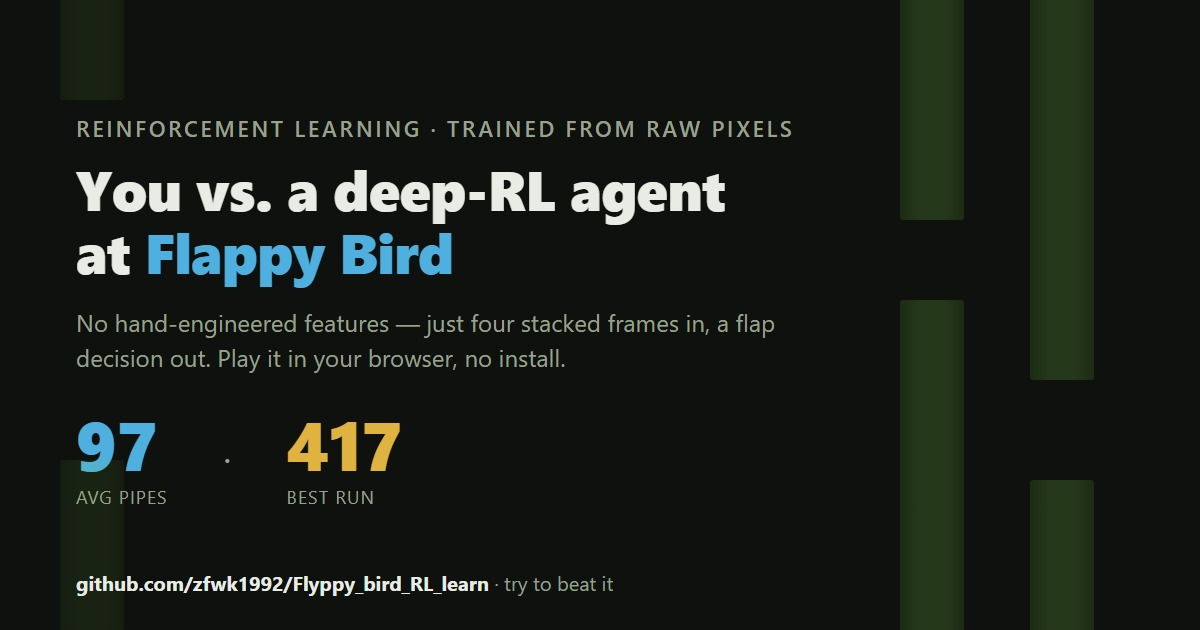
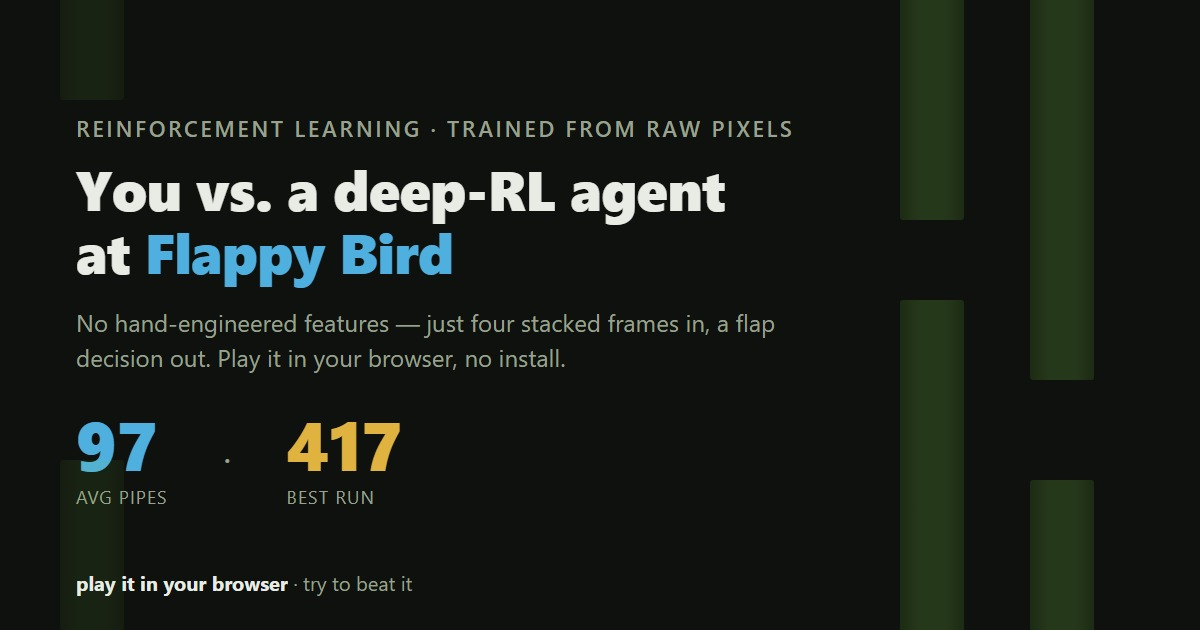
web: 去掉页面上的仓库链接，并挡住随站点一起公开的开发文档
项目是私人的，页脚那句"代码、训练日志和完整复盘：github.com/..."
以及 OG 卡片图上印的仓库地址都得去掉。页脚换成一句中性的说明。

顺带发现一个更要紧的：**web/ 下的开发文档全部被公开发布了。**
wrangler.jsonc 的 assets.directory 指向 ./web，于是这个目录下每个文件
都是公开资源。线上实测全部 HTTP 200：

    /PROGRESS.md        62 KB，完整开发日志
    /DEPLOY.md          部署配置和踩过的坑
    /TESTING.md         哪些测了、哪些**没测**、哪些没能复现
    /LINKEDIN_POST.md   发帖草稿
    /tools/*.md /*.py   移植说明和导出脚本

它们不是站点内容，只是碰巧和站点住在同一个目录里。项目既然是私人的，
把"哪些地方还没验证"挂在公网上尤其不合适。

用 Cloudflare 官方的 .assetsignore（.gitignore 语法，放在资源目录根）挡掉：
*.md、tools/、model/*.onnx，以及本地临时文件。**_headers 特意没有排除**
—— 那是 Cloudflare 自己要读的配置，挡掉缓存策略就失效了。

站点真正需要的文件一个没少：index.html、五个 js、权重、精灵、_headers。

五项检查全过，viewport 7 视口全过。

Changed region(s): [[0.0617, 0.9048, 0.5242, 0.9651]]

diff --git a/web/index.html b/web/index.html
@@ -756,7 +756,7 @@
     </p>
 
     <footer class="credits">
-      <span>Code, training logs, and the full write-up: <a href="https://github.com/zfwk1992/Flyppy_bird_RL_learn" target="_blank" rel="noopener">github.com/zfwk1992/Flyppy_bird_RL_learn</a></span>
+      <span>Built as a weekend project. Dueling Double-DQN, trained from pixels.</span>
     </footer>
   </section>
 </div>

diff --git a/web/tools/og_card_source.html b/web/tools/og_card_source.html
@@ -61,7 +61,7 @@
     <div class="stat you"><b>417</b><span>best run</span></div>
   </div>
 
-  <div class="foot"><b>github.com/zfwk1992/Flyppy_bird_RL_learn</b> &middot; try to beat it</div>
+  <div class="foot"><b>play it in your browser</b> &middot; try to beat it</div>
 </div>
 </body>
 </html>
